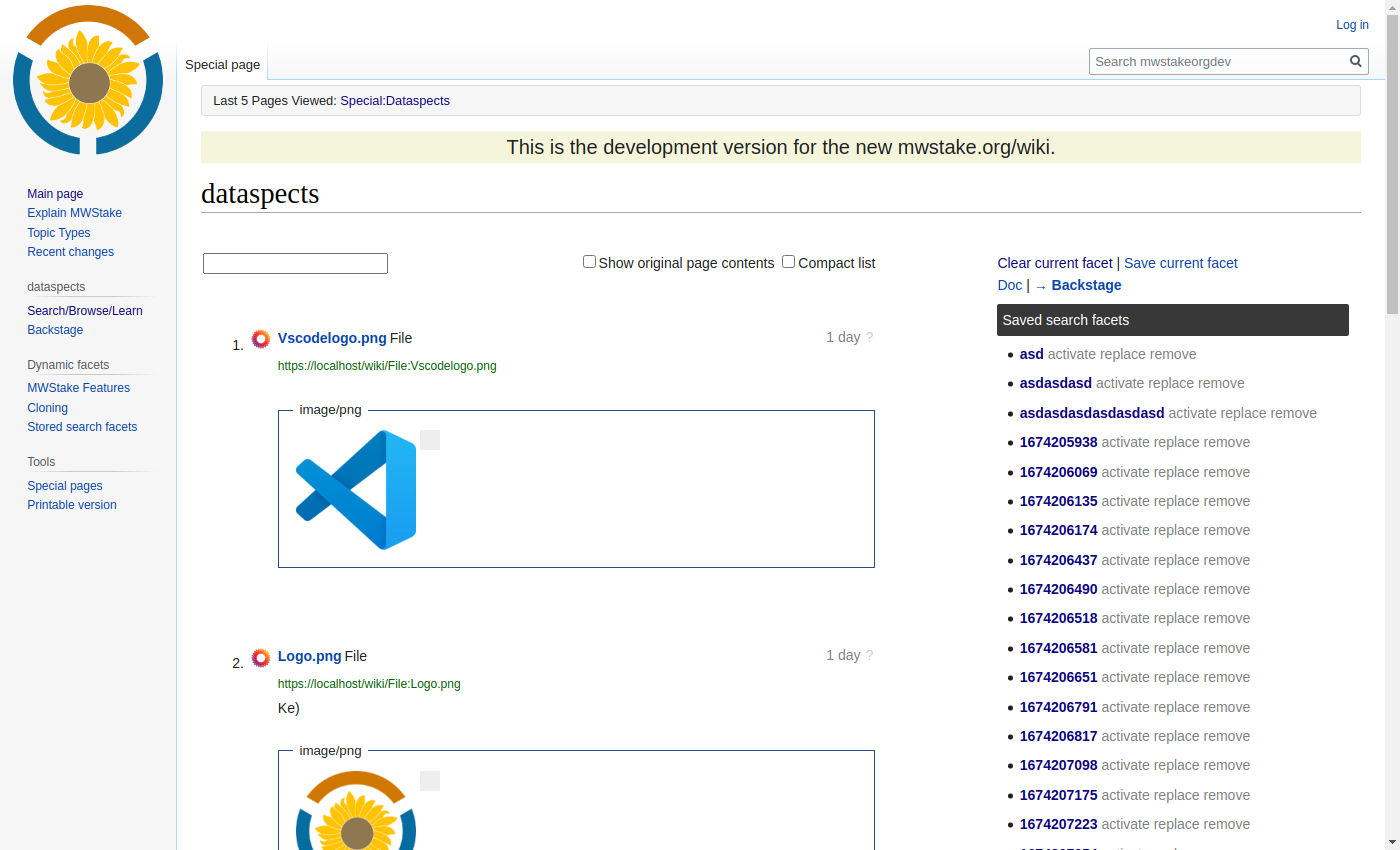
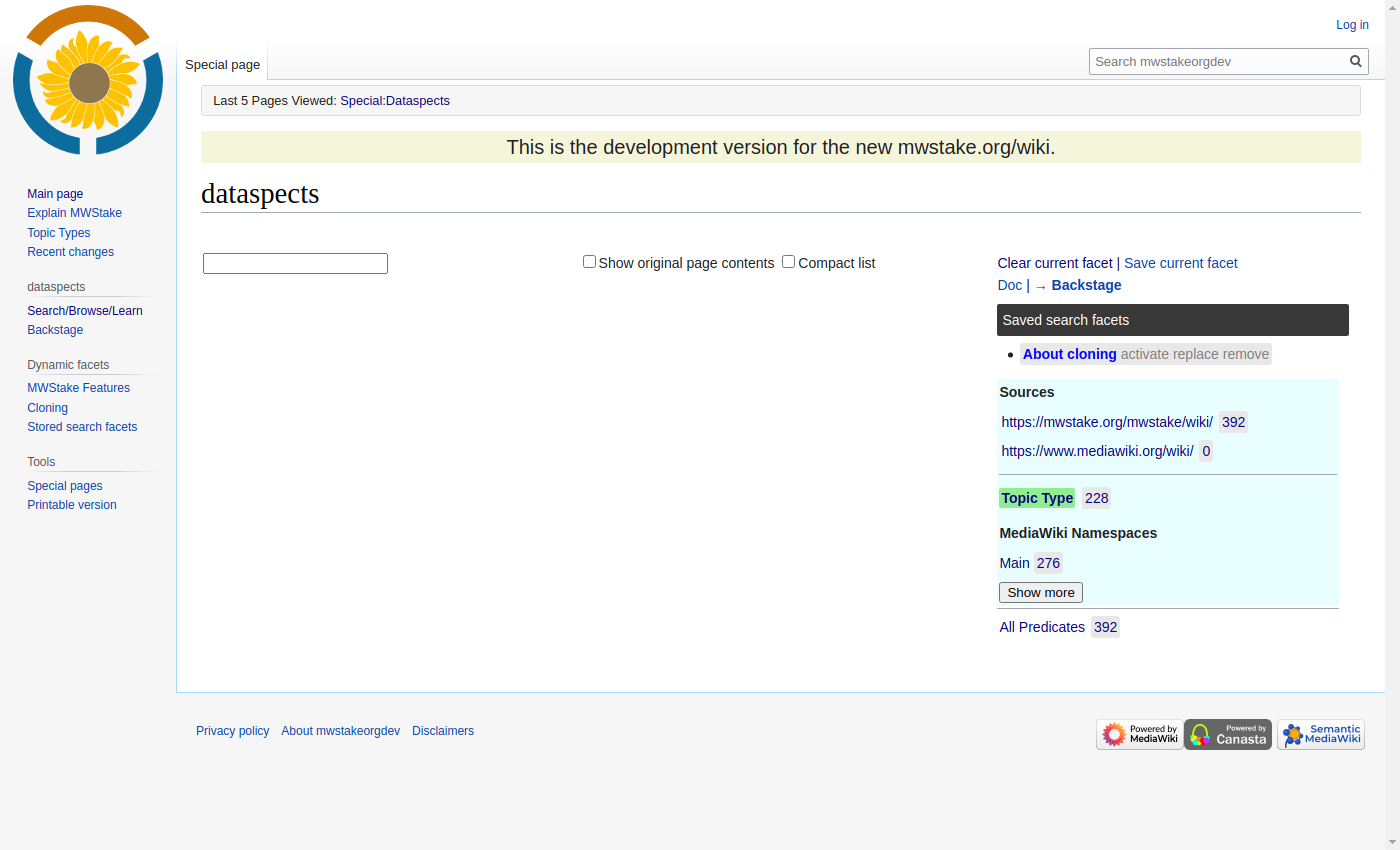
const setCurrentHelper = (helper) => {

diff --git a/resources/ext.dataspectsSearch/dataspectsSearch.js b/resources/ext.dataspectsSearch/dataspectsSearch.js
@@ -36,11 +36,20 @@ const defaultToAuthorizedSources = (helper) => {
 };
 
 function handleSpecialDataspects() {
+  const { SearchResultMatcher } = require("./searchResultMatcher.js");
   if (!mw.config.get("wgDataspectsSearchURL")) {
     return;
   }
+  const setCurrentHelper = (helper) => {
+    window.localStorage.setItem(
+      "dataspectsSearchFacet",
+      JSON.stringify({
+        environment: { user: mw.config.get("user") },
+        meilisearchHelper: helper,
+      })
+    );
+  };
 
-  const { SearchResultMatcher } = require("./searchResultMatcher.js");
   const search = instantsearch({
     indexName: mw.config.get("wgDataspectsIndex"),
     searchClient: instantMeiliSearch(
@@ -61,6 +70,7 @@ function handleSpecialDataspects() {
       } else {
         alert("You have to select one or more source(s).");
       }
+      setCurrentHelper(helper);
     },
   });
   const searchFacets = new SearchFacets(mwapi, search);
@@ -345,14 +355,4 @@ $("#compactList").click(function () {
 //     $("#intro").html(getUrlParameter("intro"));
 //   }
 //   $("#facetingMenus").click();
-// };
-
-// const setCurrentHelper = (helper) => {
-//   window.localStorage.setItem(
-//     "dataspectsSearchFacet",
-//     JSON.stringify({
-//       environment: { user: mw.config.get("user") },
-//       meilisearchHelper: helper,
-//     })
-//   );
 // };

diff --git a/cypress/e2e/spec.cy.js b/cypress/e2e/spec.cy.js
@@ -7,8 +7,6 @@ describe("dataspects", () => {
     cy.takeScreenshot("dataspects-Search-page");
     cy.typeIntoTextInput("input.ais-SearchBox-input", "clone");
     cy.takeScreenshot("instant-search-results");
-    cy.clearCurrentFacet();
-    cy.takeScreenshot("cleared-facet");
   });
 });
 
@@ -55,5 +53,8 @@ describe("dataspects", () => {
     // cy.removeSearchFacet(sfName1);
   });
 
-  it.only("should find 'backup' and then 'About cloning' by search facet", () => {});
+  it.only("should find 'backup' and then 'About cloning' by search facet", () => {
+    cy.visit("/wiki/Special:Dataspects");
+    cy.typeIntoTextInput("input.ais-SearchBox-input", "clone");
+  });
 });

diff --git a/cypress/support/commands.js b/cypress/support/commands.js
@@ -103,10 +103,6 @@ Cypress.Commands.add("typeIntoTextInput", (selector, text) => {
   cy.wait(2000);
 });
 
-Cypress.Commands.add("clearCurrentFacet", (selector, text) => {
-  cy.get('[data-cy="ds-clear-current-facet"]').click();
-});
-
 //////////////////////////
 
 const predicateNameReformattedBySMW = (predicateName) => {
